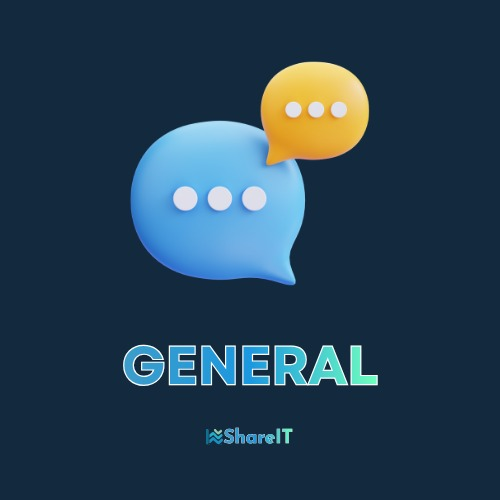
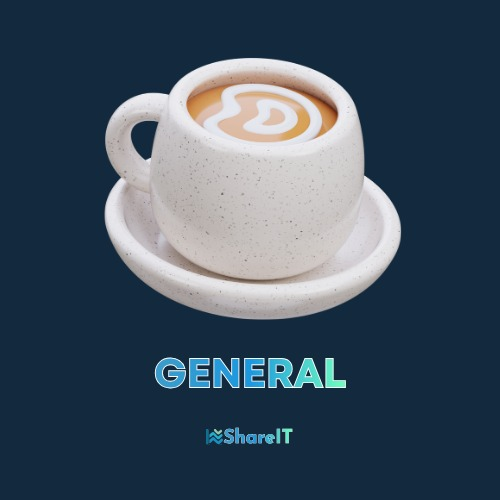
feat: add community group english

Changed region(s): [[0.21, 0.09, 0.81, 0.66], [0.24, 0.69, 0.78, 0.78]]

diff --git a/src/modules/global/constants/channels.const.ts b/src/modules/global/constants/channels.const.ts
@@ -55,4 +55,15 @@ export const whatsappGroups: WhatsappGroup[] = [
     color: '[#a78bfa]',
     referrals: ['omar-valdez', 'fabri-lennart', 'nataya-dev', 'franco-antuna'],
   },
+  {
+    title: 'Inglés - Práctica y Consultas',
+    order: 5,
+    description: [
+      'El espacio donde los miembros pueden mejorar sus habilidades comunicativas en inglés, mientras comparten recursos, resuelven dudas y se ayudan mutuamente en el proceso de aprendizaje.',
+      'No es necesario tener un nivel avanzado para participar. Quienes estén dando sus primeros pasos pueden realizar consultas y pedir orientación, mientras que quienes tengan mayor dominio pueden practicar conversaciones y colaborar con otros miembros.',
+    ],
+    icon: whatsappGroupIcons.data,
+    image: '/images/groups/ENGLISH.jpg',
+    color: '[#a78bfa]',
+  },
 ]
